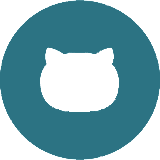
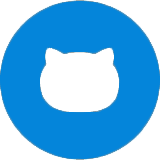
Added new background image and restyled the whole website

diff --git a/styles/default.css b/styles/default.css
@@ -3,7 +3,10 @@
 
 
 body{
-   background: url("../img/background.jpg") no-repeat center center fixed; 
+   background: url("../img/background.jpg") no-repeat center fixed; 
+   width: 100%;
+   height: 100%;
+   color: #ccc;
   -webkit-background-size: cover;
   -moz-background-size: cover;
   -o-background-size: cover;
@@ -21,13 +24,11 @@ header, section, footer{
 }
 
 header,section, footer{
-  background-color:white;
-  box-shadow: 5px 5px 10px rgba(0,0,225,0.1);
-  border-radius:5px;
+
 }
 
 p{
-  color:#000;
+  color:#ddd;
 }
 nav{
   padding:0;
@@ -38,7 +39,6 @@ nav{
 }
 
 .content{
-  background-color:rgba(255,255,255,0) ;
   margin:2% 0;
 }
 .content h2{
@@ -54,7 +54,7 @@ nav{
 .content h2 {
   font-family: 'Libre Baskerville', serif;
   text-align: center;
-  color:#2c7383;
+  color:#0485da;
 }
 
 .container{
@@ -79,7 +79,7 @@ nav{
   padding: 3px 0;
 }
 .container ul li:hover{
-  background-color: #F2f2f2;
+  background-color: rgba(224,224,224,0.1);
 }
 .container ul li .ability-score .glyphicon{
   font-size: 14px; 
@@ -105,7 +105,7 @@ nav{
   display:inline-block;
 }
 .container h3{
-  color: #2c7383;
+  color: #0485da;
   font-size: 1.7em;
   margin-top:3%;
   margin-bottom:2%;
@@ -128,6 +128,7 @@ nav{
   text-align:center;
   font-size: 4vw;
   margin:0 0 0 5%;
+  color: #999;
 }
 
 #logo img{
@@ -150,15 +151,16 @@ nav{
 .mobile_menu select {
     width:80%;
     padding:5px;
-    border:2px solid #2c7383;
+    border:2px solid #0485da;
     margin-top:10px;
     margin-bottom:10px;
 }
 
 .fixed {
   display: block;
-  background-color: #fff;
+  float: left;
   z-index: 1;
+  border:none !important;
   width: 100% !important;
   position:fixed !important;
   top:0 !important;
@@ -170,7 +172,7 @@ nav{
   width: 90%;
   margin:0px auto;
   padding: 3px;
-  border:10px solid #2c7383;
+  border:10px solid #0485da;
   border-radius: 100%;
 }
 .aboutMe {
@@ -189,14 +191,14 @@ nav{
   text-align: center;
 }
 .aboutMe p{
-  font-family: 'Helvetica','Arial',sans-serif;
+  font-family: Raleway,"Helvetica", sans-serif;
   font-size: 1em;
   width: 100% !important;
   margin: 1%;
 }
 
 .aboutMe h3{
-  color: #2c7383;
+  color: #0485da;
   font-size: 2.2vw;
   margin-top:3%;
   margin-bottom:1.2%;
@@ -205,6 +207,7 @@ nav{
 .aboutMe h5{
   font-size: 1.5em;
   margin:1% 0;
+  color:#999;
 }
 #myInfo span{
   width: 100%;
@@ -272,7 +275,7 @@ nav{
 }
 
 .filled{
-  color:#2c7383;
+  color:#0485da;
 }
 
 .glyphicon-star:before{
@@ -300,8 +303,8 @@ nav{
 }
 
 .green {
-  background-color: #47757F;
-  box-shadow: 0px 5px 0px 0px #243B40;
+  background-color: #0485da;
+  box-shadow: 0px 5px 0px 0px #055990;
 }
 
 .green:hover {
@@ -362,7 +365,7 @@ nav{
 .project figure{
   position: relative;
   overflow: hidden;
-  background:#2c7383;
+  background:#0485da;
   text-align: center;
   cursor: pointer;
   -webkit-margin-before: 1em;
@@ -491,7 +494,7 @@ figure.effect-chico:hover h2 {
 }
 #contact img:hover{
   border-radius: 100%;
-  border:2px solid #2c7383;
+  border:2px solid #0485da;
 }
 #contact ul li a img {
   width: 15%;
@@ -522,7 +525,7 @@ form .field label {
   position: absolute;
   top: 0;
   left: 0;
-  background: #47757F;
+  background: #0485da;
   width: 100%;
   padding: 18px 0;
   font-size: 1.45em;
@@ -633,13 +636,13 @@ form .field textarea.focused + label {
 }
 form .field:hover label {
   width: 18%;
-  background: #47757F;
+  background: #0485da;
   color: #FFF;
 }
 
 form input[type="submit"] {
   width: 50%;
-  background: #47757F;
+  background: #0485da;
   border-radius: 20px;
   border:none;
   color: white;
@@ -656,12 +659,12 @@ form input[type="submit"] {
   -ms-transition: all 333ms ease-in-out;
   transition: all 333ms ease-in-out;
   margin: 20px 0;
-  box-shadow: 0px 5px 0px 0px #243B40;
+  box-shadow: 0px 5px 0px 0px #055990;
 }
 
 form input[type="submit"]:hover {
   background: #fcff74;
-  color: #000;
+  color: #FFF;
 }
 form input[type="submit"]:focus {
    transform: translate(0px, 5px);
@@ -757,7 +760,7 @@ header, section, footer{
   display: block;
   margin:10px auto;
   width: 40%;
-  border:10px solid #2c7383;
+  border:10px solid #0485da;
   border-radius: 100%;
 }
 
@@ -802,7 +805,8 @@ header, section, footer{
 
 header, section, footer{
   width:80%;
-  margin:1% auto;
+  margin:1% 0;
+  float: left;
 }
 .content h3{
   text-align: left;
@@ -817,7 +821,7 @@ header, section, footer{
   -webkit-column-count: 2;
        -moz-column-count: 2;
             column-count: 2;
-}
+}$#
 
 /**********************|Header|*********************/
 
@@ -881,12 +885,11 @@ header, section, footer{
 }
 #cssmenu {
   width: auto;
-  border-bottom: 3px solid #2c7383;
   font-family: Raleway, sans-serif;
   line-height: 1;
 }
 #cssmenu ul {
-  background: #ffffff;
+ 
 }
 #cssmenu > ul > li {
   
@@ -896,6 +899,7 @@ header, section, footer{
 #cssmenu.align-center > ul {
   font-size: 0;
   text-align: center;
+  border-bottom: 1px solid #0485da;
 }
 #cssmenu.align-center > ul > li {
   width: auto;
@@ -908,7 +912,7 @@ header, section, footer{
   font-size: 15px;
   font-weight: 400;
   text-decoration: none;
-  color: #000;
+  color: #FFF;
   -webkit-transition: all .2s ease;
   -moz-transition: all .2s ease;
   -ms-transition: all .2s ease;
@@ -919,7 +923,7 @@ header, section, footer{
 #cssmenu > ul > li.active > a,
 #cssmenu > ul > li:hover > a,
 #cssmenu > ul > li > a:hover {
-  color: #ffffff;
+  color: #FFF;
 }
 #cssmenu > ul > li > a:after {
   position: absolute;
@@ -946,7 +950,7 @@ header, section, footer{
 #cssmenu > ul > li.active > a:after,
 #cssmenu > ul > li:hover > a:after,
 #cssmenu > ul > li > a:hover:after {
-  background: #2c7383;
+  background: #0485da;
 }
 
 /**********************|Experiences|*********************/
@@ -963,7 +967,7 @@ header, section, footer{
   margin: 0px 2.5%;
 }
 .place h4{
-  color: #61614e;
+  color: #999;
   font-family:Raleway, sans-serif;
   font-weight: 700;
   margin:10px 0;
@@ -987,12 +991,12 @@ header, section, footer{
 }
 
 .description p{
-  font-family: 'Helvetica','Arial',sans-serif;
+  font-family: Raleway,"Helvetica", sans-serif;
   width: 100%;
 }
 
 .description p strong{
-  color: #61614e;
+  color: #999;
   display: block;
   padding-top:8px;
   margin-bottom: 10px;
@@ -1001,7 +1005,7 @@ header, section, footer{
 /**********************|Profile|*********************/
 
 .aboutMe p{
-  font-family: 'Helvetica','Arial',sans-serif;
+  font-family: Raleway,"Helvetica", sans-serif;
   text-align: left;
 }
 .aboutMe h3{
@@ -1015,12 +1019,12 @@ header, section, footer{
   display: block;
   margin:0px auto;
   width: 90%;
-  border:10px solid #2c7383;
+  border:10px solid #0485da;
   border-radius: 100%;
 }
 .aboutMe {
-  margin:5% 1%;
-  width: 30%;
+  margin:5% 4%;
+  width: 40%;
   display:inline-block;
 }
 

diff --git a/index.php b/index.php
@@ -62,11 +62,6 @@ include("php/data.php");
 			    <h3>Brief Bio</h3>
 			    <?php echo $bio; ?>
 		    </div>
-		    <div id="pic" class="aboutMe">
-		    	<img src="img/myPic.jpg" alt="Aleksandr Antonov"
-		    	onmouseover="this.src='img/myPic_reg.jpg'" onmouseout="this.src='img/myPic.jpg'" 
-		    	>
-		    </div>
 		    <div id="myInfo" class="aboutMe">
 		    <h3>Details</h3>
 		    	<?php
